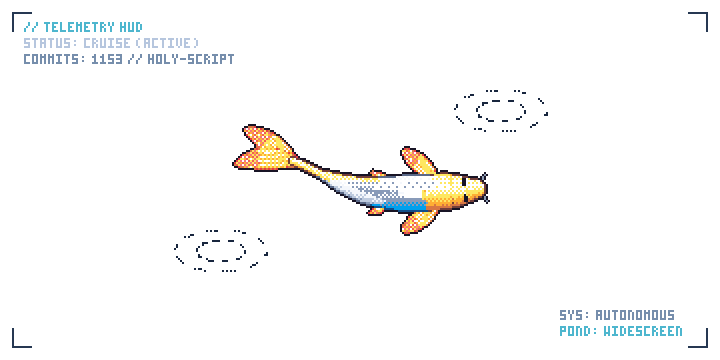
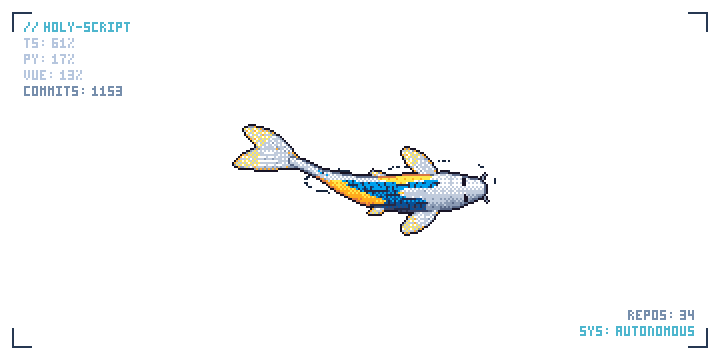
koi: update rendered assets with dev-identity HUD and interconnected ripples

diff --git a/koi/preview.html b/koi/preview.html
@@ -16,7 +16,7 @@
 </style>
 </head>
 <body>
-<header class="light"><h1>cruise for 2026-11-13, gold body</h1></header>
+<header class="light"><h1>cruise for 2026-11-13, white body</h1></header>
 <section class="light">
 <h2>GitHub light</h2>
 <div class="images">
